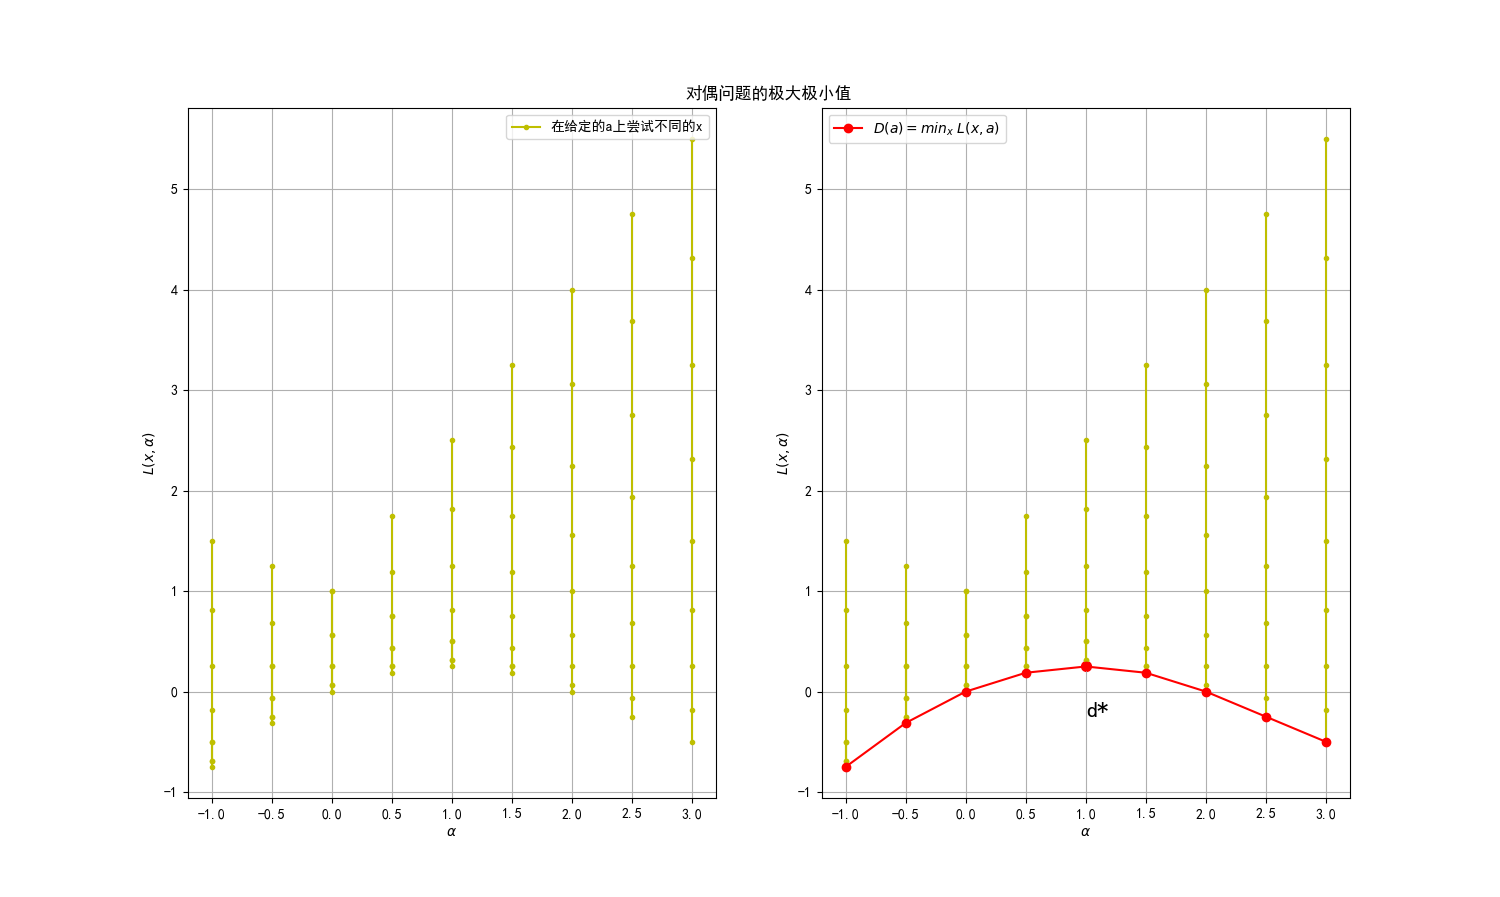
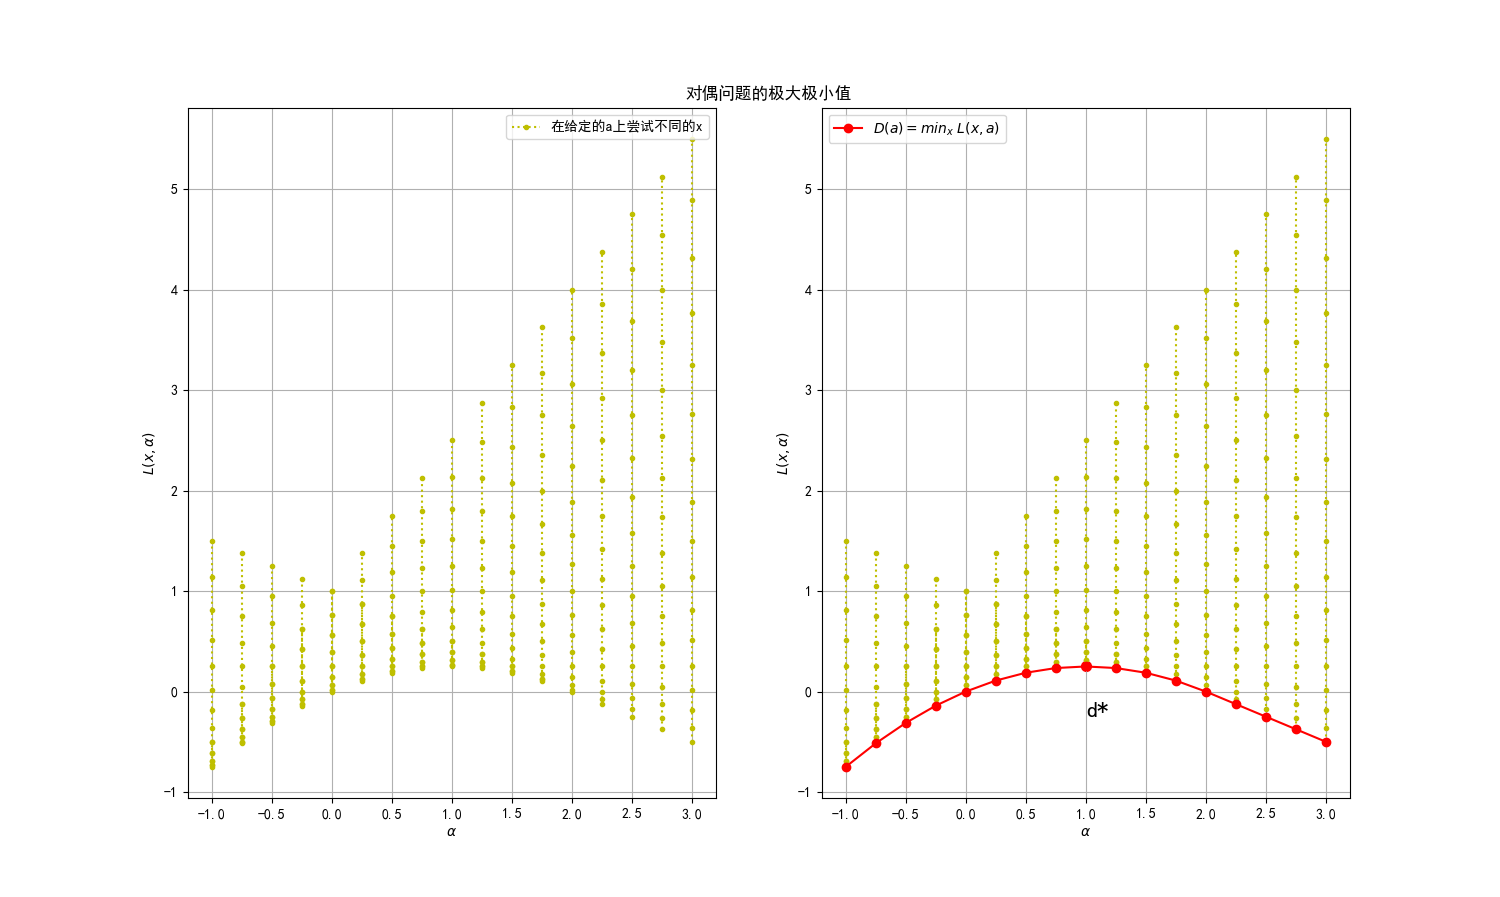
update

diff --git a/基础教程/A4-经典机器学习算法（更新中）/第5步 基于核的算法/src/4-5-2.py b/基础教程/A4-经典机器学习算法（更新中）/第5步 基于核的算法/src/4-5-2.py
@@ -4,8 +4,8 @@ import matplotlib.pyplot as plt
 import matplotlib as mpl
 
 def draw_left_A_L(ax):
-    num_alpha = 9
-    num_x = 9
+    num_alpha = 17
+    num_x = 17
     L = []
     # X 共 9 个等间距 x
     X = np.linspace(0,2,num_x)

diff --git a/基础教程/A4-经典机器学习算法（更新中）/第5步 基于核的算法/svm4-拉格朗日对偶问题.md b/基础教程/A4-经典机器学习算法（更新中）/第5步 基于核的算法/svm4-拉格朗日对偶问题.md
@@ -44,7 +44,7 @@ $$
 4. 设 $D(\alpha) = \underset{x}{\min}\ L(x,\alpha)$，并求解；
 5. 设 $d^*=\underset{\alpha;\alpha \ge 0}{\max}\ D(\alpha)=\underset{\alpha;\alpha \ge 0}{\max} [\underset{x}{\min}\ L(x,\alpha)]$，并求解。此时 $d^*$ 是对偶问题的解且较容易得到，并且 $d^* \le p^*$。
 
-由于原始问题的 $p^*$ 是通过先求极大值再求极小值得到的，而后者 $d^*$ 是通过先求极小值再求极大值得到的，两者成为镜像，所以叫做对偶问题。
+由于原始问题的 $p^*$ 是通过先求极大值再求极小值得到的，而后者 $d^*$ 是通过先求极小值再求极大值得到的，二者成为镜像，所以叫做对偶问题。
 
 下面我们会用实例说明一下原始问题和对偶问题的关系，以及为什么 $d^* \le p^*$。
 
@@ -56,10 +56,11 @@ $$
 P(x)=\underset{\alpha;\alpha \ge 0}{\max} \ L(x,\alpha) \tag{5.4.4}
 $$
 
-式 5.4.4 的含义是，虽然 $L$ 有两个参数 $x, \alpha$，但是我们先在若干指定的 $x$ 上遍历 $\alpha$，寻找当 $\alpha$ 为何值时 $L$ 的值最大。
+式 5.4.4 的含义是，虽然 $L$ 有两个参数 $x, \alpha$，但是我们先在若干指定的 $x$ 上遍历 $\alpha$，寻找当 $\alpha$ 为何值时 $L$ 的值最大。由于我们事先知道 $x=0.5,\alpha=1$ 是该问题的解，为了简单起见，所以指定 $x$ 的遍历范围是 $[-1,3]$，$\alpha$ 的遍历范围是 $[0,2]$。
 
 得到 $P(x)$ 的具体步骤：
-1. 设定 $\alpha$ 值的范围，比如 $(start=0, stop=2, step=0.5)$，从 0 开始，每隔 0.5 取一个 $\alpha$ 的值，直到 2 为止，一共 5 个 $\alpha$ 值。
+
+1. 设定 $\alpha$ 值的范围，比如 $(start=0, stop=2, step=0.5)$，从 0 开始，每隔 0.5 取一个 $\alpha$ 的值，直到 2 为止，一共 5 个 $\alpha$ 值。如果想获得更精确的结果，可以令 $step=0.1$ 来获得更多（密集）的 $\alpha$ 值。
 2. 对 $x$ 取值一定范围，假设 $(start=-1, stop=3, step=0.1)$，一共 41 个 $x$ 值。
 3. 取第一个 $x$ 值 $x=-1$，用步骤一中的一系列的 $\alpha$ 值来计算出 5 个 $L(-1,\alpha)$，从中得到最大值，即 $P(-1)$。
 4. 然后再取第二个 $x=-0.9$，再用一系列的 $\alpha$ 值来计算出 5 个 $L(-0.9,\alpha)$，从中得到最大值，即 $P(-0.9)$；
@@ -97,11 +98,10 @@ def draw_left_X_L(ax):
     L = np.array(L)
     return L, X
 ```
-由于我们事先知道 $x=0.5,\alpha=1$ 是该问题的解，为了简单起见，所以指定 $x$ 的遍历范围是 [-1,3]，$\alpha$ 的遍历范围是 [0,2]。
 
-这段代码绘制出图 5.4.1 中的左子图，横坐标是 $x$，纵坐标是函数 $L(x,\alpha)$，**每一条竖线**都表示在一个指定的 $x$ 上尝试的 5 个 $\alpha$ 值对应的 $L(x,\alpha)$ 值，此时 $x$ 是常数，$\alpha$ 是变量。
+这段代码绘制出图 5.4.1 中的左子图，横坐标是 $x$，纵坐标是函数 $L(x,\alpha)$，**每一条竖线**都表示在一个指定的 $x$ 上尝试的 5 个 $\alpha$ 值对应的 $L(x,\alpha)$ 值，此时 $x$ 是常数，$\alpha$ 是变量。红色曲线是原函数 $f(x)$。
 
-红色曲线是原函数 $f(x)$。
+完整代码请运行 4-5-1.py。
 
 <img src="./images/5-4-1.png" />
 
@@ -109,7 +109,7 @@ def draw_left_X_L(ax):
 
 下面要获得 $P(x)$，观察左子图，就是要在每条竖线上的 5 个不同 $\alpha$ 的点中取最大的那个值，就是 $\underset{\alpha}{\max} L$。当然还可以取更多或更密集的 $\alpha$ 值来做试验。
 
-取最大值用矩阵计算比较方便，所以我们把上面代码中的 L 显示在表 5.4.1 中（选取了其中的 9 行数据而不是 41 行），用黑体表示展示当前行中的最大值（比如第一行的 **4**，斜体表示取出来的结果（最后一列）。
+取最大值用矩阵计算比较方便，所以我们把上面代码中的 L 显示在表 5.4.1 中（选取了其中的 9 行数据而不是全部的 41 行数据），用黑体表示展示当前行中的最大值（比如第一行的 **4**），斜体表示取出来的结果（最后一列）。
 
 表 5.4.1 不同的 $\alpha$ 在给定的 $x$ 上的 $L$ 值
 
@@ -125,17 +125,21 @@ def draw_left_X_L(ax):
 |$x$=2.5|2.25|3.25|4.25|5.25|**6.25**|*6.25*|
 |$x$=3.0|4|4.25|6.5|7.75|**9**|*9*|
 
+表 5.4.1 的一行数据，就代表图 5.4.1 中的一条黄色竖线，可以观察到每条竖线上有 5 个点，是在给定 $x$ 时，$\alpha$ 分别取值为 $[0, 0.5, 1, 1.5, 2]$ 得到的 $L$ 值。
+
 得到最大值的代码如下，其中 axis=1 表示横向比较，取出一行中的最大值。
 
 ```
 # P(x) = max_a L(x,a)
 max_a = np.max(L, axis=1)
-# [out] 
-P(x) = max_a L(x,a) = [4. 2.25 1. 0.25 1. 2.25 4. 6.25 9.]
 ```
-表 5.4.1 的一行数据，就代表图 5.4.1 中的一条黄色竖线，可以观察到每条竖线上有 5 个点，是在给定 $x$ 时，$\alpha$ 分别取值为 [0, 0.5, 1, 1.5, 2] 得到的 $L$ 值。
+得到的值列表如下：
+```
+max_a L(x,a) = [4. 3.61 3.24 2.89 2.56 2.25 1.96 1.69 1.44 1.21 1. 0.81 0.64 0.49
+ 0.36 0.25 0.36 0.49 0.64 0.81 1. 1.21 1.44 1.69 1.96 2.25 2.56 2.89 3.24 3.61 4. 4.41 4.84 5.29 5.76 6.25 6.76 7.29 7.84 8.41 9.]
+```
 
-我们把得到的 max_a 值（是一组列表数据）用下面的代码绘制在图 5.4.1 中的右侧子图中，因为 x 取值范围是 $(start=-1，stop=3，step=41)$，所以序号 15 正好在 x=0.5 的点上：
+我们把得到的 max_a 值 $[4, \cdots, 2.25,\cdots, 1,\cdots, 0.25,\cdots, 1,\cdots, 2.25,\cdots, 4,\cdots, 6.25,\cdots, 9]$ 用下面的代码绘制在图 5.4.1 中的右侧子图中，因为 x 取值范围是 $(start=-1，stop=3，step=41)$，所以序号 15 正好在 x=0.5 的点上：
 
 ```Python
 # x <= 0.5
@@ -159,7 +163,7 @@ P(x)=\underset{\alpha;\alpha \ge 0}{\max} \ L(x,\alpha)=\underset{\alpha;\alpha 
 \tag{5.4.5}
 $$
 
-- 当样本点 $x$ 满足 $g(x)$ 的要求时，因为 $g(x) \le 0, \alpha \ge 0$，所以 $\alpha g(x) \le 0$，则 $L(x,\alpha) \le f(x)+\alpha g(x)$。所以$L(x,\alpha)$ 的值不可能超过原函数，最大值等于原函数 $f(x)$。这也是要求 $\alpha \ge 0$ 的原因。
+- 当样本点 $x$ 满足 $g(x)$ 的要求时，因为 $g(x) \le 0, \alpha \ge 0$，所以 $\alpha g(x) \le 0$，则 $L(x,\alpha) \le f(x)+\alpha g(x)$。所以$L(x,\alpha)$ 的值不可能超过原函数，最大值 $P(x)$ 等于原函数 $f(x)$。这也是要求 $\alpha \ge 0$ 的原因。
 - 当样本点不满足 $g(x)$ 的要求时，随着乘子 $\alpha$ 的值增加，$L(x,\alpha)$ 可以越来越大，这样$P(x)$ 的值可以趋近于无穷大，没有限制。
 
 现在确定了 $P(x)$ 的函数形态，对 $P(x)$ 取关于 $x$ 的极小值，结果记为 $p^*$：
@@ -178,8 +182,7 @@ min_x = np.min(max_a)
 就是在表 5.4.1 的最后一列中，取最小值，就得到 $p^*$。最后得到的打印输出是：
 
 ```
-P(x) = max_a L(x,a) = [4. 2.25 1. 0.25 1. 2.25 4. 6.25 9.]
-p* = min_x P(x) = 0.25
+p* = min_x [max_a L(x,a)] = 0.25
 x = 0.5
 ```
 
@@ -191,7 +194,7 @@ p^* = \underset{x}{\min} \ P(x)=  \underset{x}{\min} \ [\underset{\alpha;\alpha 
 \tag{5.4.7}
 $$
 
-这种针对不同参数先求最大再求最小的方法，也被称为广义拉格朗日函数的**极小极大**问题。
+这种针对不同参数分别先求最大再求最小的方法，也被称为广义拉格朗日函数的**极小极大**问题。
 
 
 ### 求对偶问题的极大极小值
@@ -216,12 +219,12 @@ $$
 
 ``` Python
 def draw_left_A_L(ax):
-    num_alpha = 9
-    num_x = 9
+    num_alpha = 17
+    num_x = 17
     L = []
-    # X 共 9 个等间距 x
+    # X 共 17 个等间距 x
     X = np.linspace(0,2,num_x)
-    # A 共 9 个 a 
+    # A 共 17 个 a 
     A = np.linspace(-1,3,num_alpha)
    
     line1 = None
@@ -237,25 +240,25 @@ def draw_left_A_L(ax):
     L = np.array(L)
     return L, A
 ```
-得到图 5.4.2 的左子图。
+得到图 5.4.2 的左子图。完整代码请运行 4-5-2.py。
 
 <img src="./images/5-4-2.png" />
 
 <center>图 5.4.2 对偶问题的极大极小值</center>
 
-与左子图对应的数据见表 5.4.2，为了节省篇幅，表中只保留了 5 行关键数据，不影响准确性。请注意，由于是对偶问题，先后顺序不同，所以表 5.4.2 中的行列定义与表 5.4.1 正好相反。
+与左子图对应的数据见表 5.4.2，为了节省篇幅，表中只保留了 5 行 5 列关键数据，不影响准确性。请注意，由于是对偶问题，先后顺序不同，所以表 5.4.2 中的行列定义与表 5.4.1 正好相反。
 
 表 5.4.2 不同的 $x$ 在给定的 $\alpha$ 上的 $L$ 值
 
-|给定 $\alpha$ 值|x=0|x=0.25|x=0.5|x=0.75|x=1|x=1.25|x=1.5|x=1.75|x=2|$D(\alpha)= \underset{x}{\min} \ L(x,\alpha)$|
-|-------|----|--------|------|--------|------|--------|------|------|---|--|
-|$\alpha$=-1|1.5|0.8125|0.25|-0.1875|-0.5|-0.6875 |**-0.75**|-0.6875|-0.5|*-0.75*|
-|$\alpha$=0.0|1|0.5625|0.25|0.0625|**0**|0.0625|0.25|0.5625|1|*0*|
-|$\alpha$=1.0|0.5|0.3125|**0.25**|0.3125|0.5|0.8125|1.25|1.8125|2.5|***0.25***|
-|$\alpha$=2.0|**0**|0.0625|0.25|0.5625|1| 1.5625 | 2.25 |3.0625|4|*0*|
-|$\alpha$=3.0|**-0.5**|-0.1875|0.25|0.8125|1.5|2.3125|3.25|4.3125|5.5|*-0.5*|
+|给定 $\alpha$ 值|x=0|x=0.5|x=1|x=1.5|x=2|$D(\alpha)= \underset{x}{\min} \ L(x,\alpha)$|
+|-------|----|--------|------|--------|------|-----|
+|$\alpha$=-1|1.5|0.25|-0.5|**-0.75**|-0.5|*-0.75*|
+|$\alpha$=0.0|1|0.25|**0**|0.25|1|*0*|
+|$\alpha$=1.0|0.5|**0.25**|0.5|1.25|2.5|***0.25***|
+|$\alpha$=2.0|**0**|0.25|1|2.25|4|*0*|
+|$\alpha$=3.0|**-0.5**|0.25|1.5|3.25|5.5|*-0.5*|
 
-表 5.4.2 的一行数据，就代表图 5.4.2 中的一条黄色竖线，是在给定 $\alpha$ 时，$x$ 分别取值为 [0, 0.25, 0.5, 0.75, 1, 1.25, 1.5, 1.75, 2] 时得到的 $L$ 值。
+表 5.4.2 的一行数据，就代表图 5.4.2 中的一条黄色竖线，就是在给定 $\alpha$ 时，$x$ 分别取值为 $[0, \cdots, 0.5, \cdots, 1, \cdots, 1.5, \cdots, 2]$ 时得到的 $L$ 值。
 
 接下来按式 5.4.8 获得每条竖线上的 $L$ 的最小值，代码如下：
 
@@ -263,6 +266,7 @@ def draw_left_A_L(ax):
 # D(a) = min_x L(x,a)
 min_x=np.min(L, axis=1)
 ```
+
 得到的结果放在表 5.4.2 的最后一列，并在图 5.4.2 的右子图中用红色线绘出：
 
 ```Python
@@ -340,6 +344,8 @@ $$
 
 ### 思考与练习
 
-1. 在图 5.4.1 中，$\alpha$ 的取值范围为 [0,2]。如果改为 [-1,2] 的话，会是什么效果？$P(x)$ 曲线还是当前这样的吗？
-2. 表 5.4.1 和表 5.4.2 的行列定义为什么相反？
-3. 图 5.4.2，如果想试验 17 组 $\alpha$ 值，如何做？
+1. 运行 4-5-1.py 和 4-5-2.py 来得到直观感受。
+2. 在计算式 5.4.4 时，取 step=0.1 来获得更多的 $\alpha$，测试最终效果。
+3. 在图 5.4.1 中，$\alpha$ 的取值范围为 [0,2]。如果改为 [-1,2] 的话，会是什么效果？$P(x)$ 曲线还是当前这样的吗？
+4. 表 5.4.1 和表 5.4.2 的行列定义为什么相反？
+5. 图 5.4.2，如果想试验 17 组 $\alpha$ 值，如何做？
